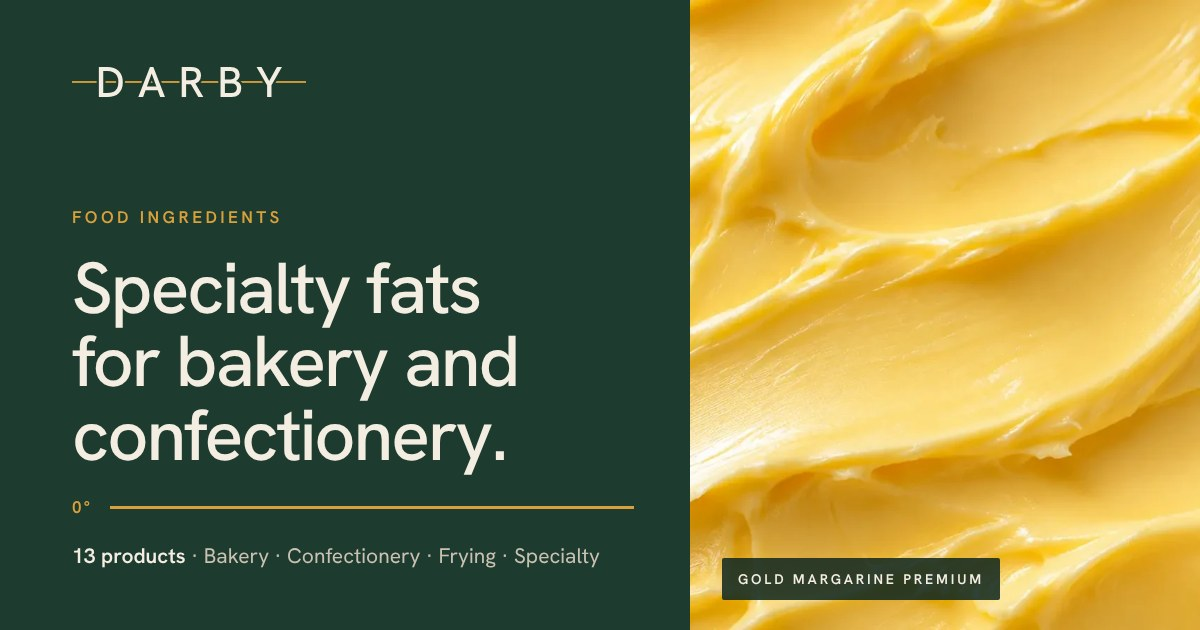
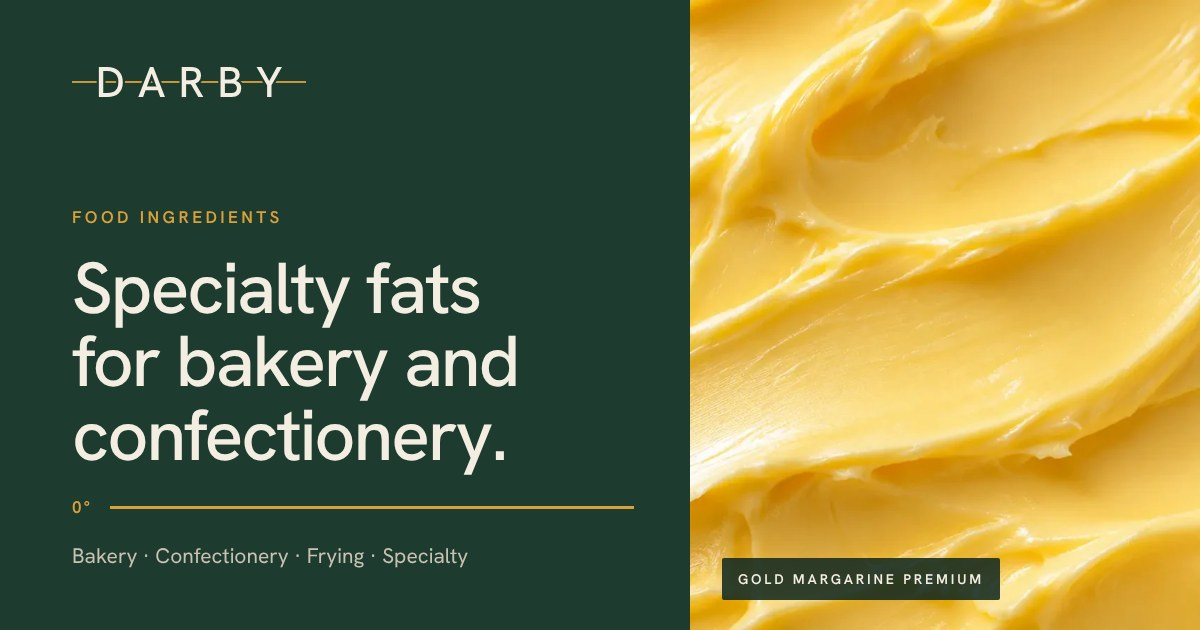
Remove product totals site-wide
Home stats and tile no longer count products, the Food Ingredients hero
panel lists categories without counts, the catalog count line is
screen-reader only, and the share images drop their counts.

Claude-Session: https://claude.ai/code/session_01CU7RCeHdAYKRgZe1UpvXSE

Changed region(s): [[0.0617, 0.8746, 0.4933, 0.9048]]

diff --git a/src/app/page.tsx b/src/app/page.tsx
@@ -159,8 +159,8 @@ export default function HomePage() {
             <span className="stat__label">Divisions from one certified origin</span>
           </div>
           <div className="stat" data-reveal="4">
-            <StatCounter value={all.length} />
-            <span className="stat__label">Products, with specifications on request</span>
+            <StatCounter value={offices.length} />
+            <span className="stat__label">Offices, in New York and Thailand</span>
           </div>
         </div>
       </section>
@@ -302,10 +302,11 @@ export default function HomePage() {
               <span className="tile__icon">
                 <Icon.document />
               </span>
-              <span className="tile__value">{all.length}</span>
-              <span className="tile__title">Specified products</span>
+              <span className="tile__value">Halal</span>
+              <span className="tile__title">Certified production</span>
               <span className="tile__text">
-                Every grade documented, with full specification sheets sent on request from the team in Armonk.
+                Food Ingredients carry Halal certification with FSSC 22000 or ISO 9001:2015, listed on every product
+                card, and full specification sheets are sent on request.
               </span>
             </div>
           </div>

diff --git a/src/components/DivisionPage.tsx b/src/components/DivisionPage.tsx
@@ -2,7 +2,7 @@ import Image from "next/image";
 import { ProductCatalog } from "./ProductCatalog";
 import { SpecForm } from "./SpecForm";
 import { Breadcrumb, ButtonLink, Equator } from "./ui";
-import { getCategories, getProducts, numberWord, pluralProducts, productImage, type DivisionName } from "@/lib/products";
+import { getCategories, getProducts, numberWord, productImage, type DivisionName } from "@/lib/products";
 import { site } from "@/lib/site";
 import { interestSlug } from "@/lib/validation";
 
@@ -73,14 +73,11 @@ export function DivisionPage({ division, standfirst, panel, nameSize, proof, her
             </div>
           ) : (
             <div className="dpanel dpanel--cats" data-reveal="2">
-              <span className="label label--olein">
-                {products.length} products in {numberWord(categories.length)} categories
-              </span>
+              <span className="label label--olein">{numberWord(categories.length)} categories</span>
               <ul className="dcats">
                 {categories.map((c) => (
                   <li key={c.name} className="dcats__row">
                     <span className="dcats__name">{c.name}</span>
-                    <span className="dcats__count">{pluralProducts(c.count)}</span>
                   </li>
                 ))}
               </ul>

diff --git a/src/components/ProductCatalog.tsx b/src/components/ProductCatalog.tsx
@@ -46,10 +46,10 @@ export function ProductCatalog({
         <div className="catalog__title-group">
           <h2 className="h-block">{title}</h2>
         </div>
-        <span className="catalog__count" aria-live="polite">
-          Showing {shown} {shown === 1 ? "product" : "products"}
-        </span>
       </div>
+      <p className="sr-only" aria-live="polite">
+        Showing {shown} {shown === 1 ? "product" : "products"}
+      </p>
       <div role="group" aria-label="Filter by type" className="filters filters--scroll">
         {[ALL, ...categories.map((c) => c.name)].map((cat) => (
           <button

diff --git a/README.md b/README.md
@@ -110,7 +110,7 @@ The client asked for a more feature- and visual-rich site, referencing waxianint
 Applied:
 - Third division, **Personal Care**, in the header, footer, home page, hero buttons, sitemap and share images, with its own page. Product list still to come (see below).
 - Home headline is now "Palm-based ingredients for feed, food and personal care." (was "Palm, refined for feed and food."); the supply section headline is "Animal nutrition, food ingredients and personal care." (was "Two divisions. One palm supply chain."). Site title and descriptions updated to match.
-- "Explore N products" buttons replaced by "Explore {division}". The per-category product counts were later removed from the home page too; the division pages keep their counts and the live catalog count.
+- "Explore N products" buttons replaced by "Explore {division}". Product counts were later removed everywhere: per-category counts, the totals on the home page, the Food Ingredients hero panel and the share images. The catalog's "Showing N products" line is now read only by screen readers when a filter changes.
 - "Palm specialist" removed everywhere: contact headlines, division buttons, the hero eyebrow, the 1992 proof item, form confirmation and metadata.
 - Main line +1 914 701 0003 removed. Three direct lines added on the contact page, footer, phone menu, home contact prompt, structured data and the contact share image: Sales, Ryan Fales, +1 914 557 0514 · Operations, Michael Fales, +1 914 774 1660 · Finance, Corey Rinker, +1 914 419 3993.
 - Network map on the contact page: stars for the six warehouses, the Armonk headquarters and the Thailand office, with the equator and the Malaysian and Indonesian origin marked.
